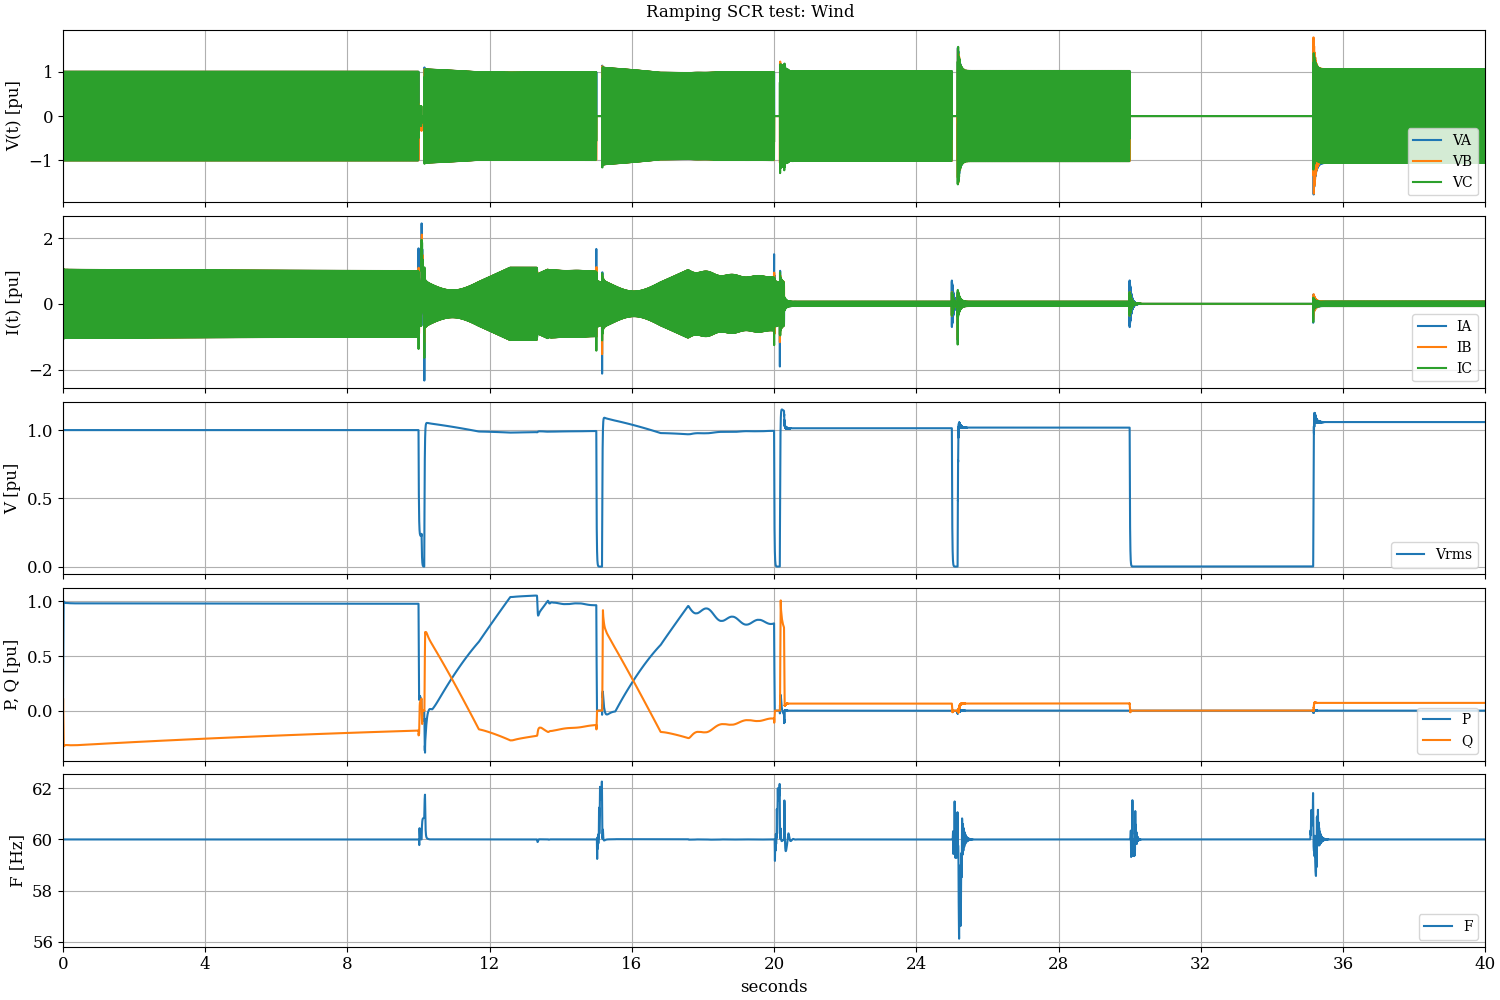
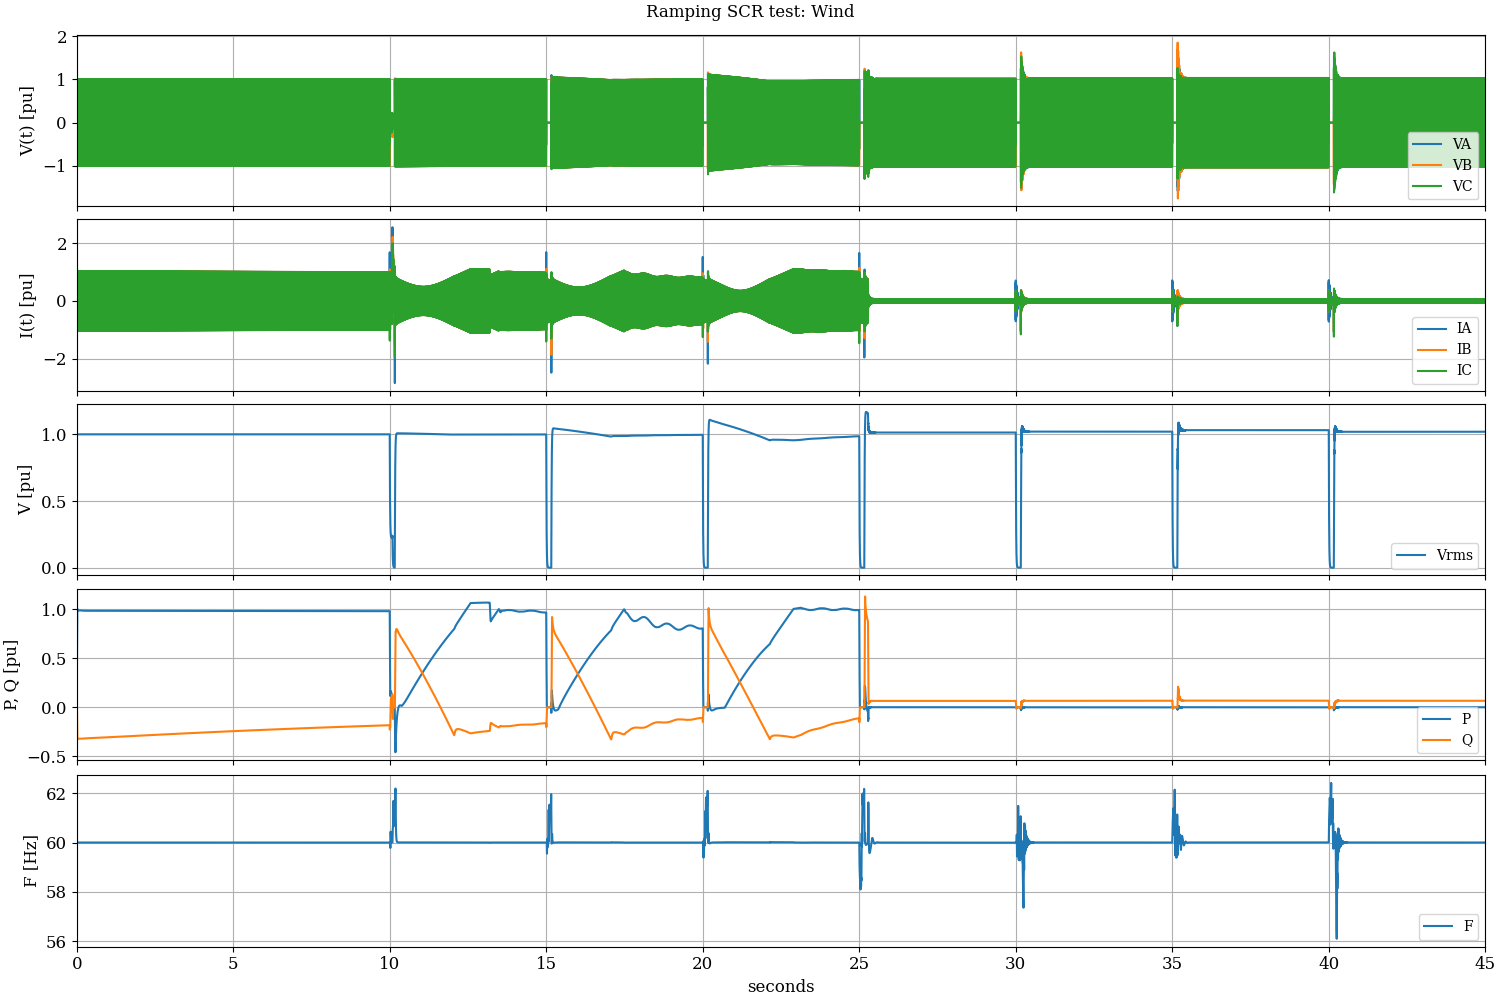
updating wind scr ramping plot

diff --git a/emt-bootcamp/python/cplot6.py b/emt-bootcamp/python/cplot6.py
@@ -40,7 +40,7 @@ def setup_plot_options():
   plt.rc('legend', fontsize=10)
 
 def show_case_plot(channels, units, title, bPSCAD, tmax=40.0, PNGName=None):
-  x_ticks = np.linspace (0.0, tmax, 11)
+  x_ticks = np.linspace (0.0, tmax, 10)
   t = channels['t']
   fig, ax = plt.subplots(5, 1, sharex = 'col', figsize=(15,10), constrained_layout=True)
   fig.suptitle (title)
@@ -128,7 +128,7 @@ if __name__ == '__main__':
   else:
     session_path = 'c:/temp/i2x/emtp'
     case_tag = 'Wind'
-    tmax = 40.0
+    tmax = 45.0
   if bSavePNG:
     PNGName = '{:s}_{:s}.png'.format (case_tag, test)
   else:
